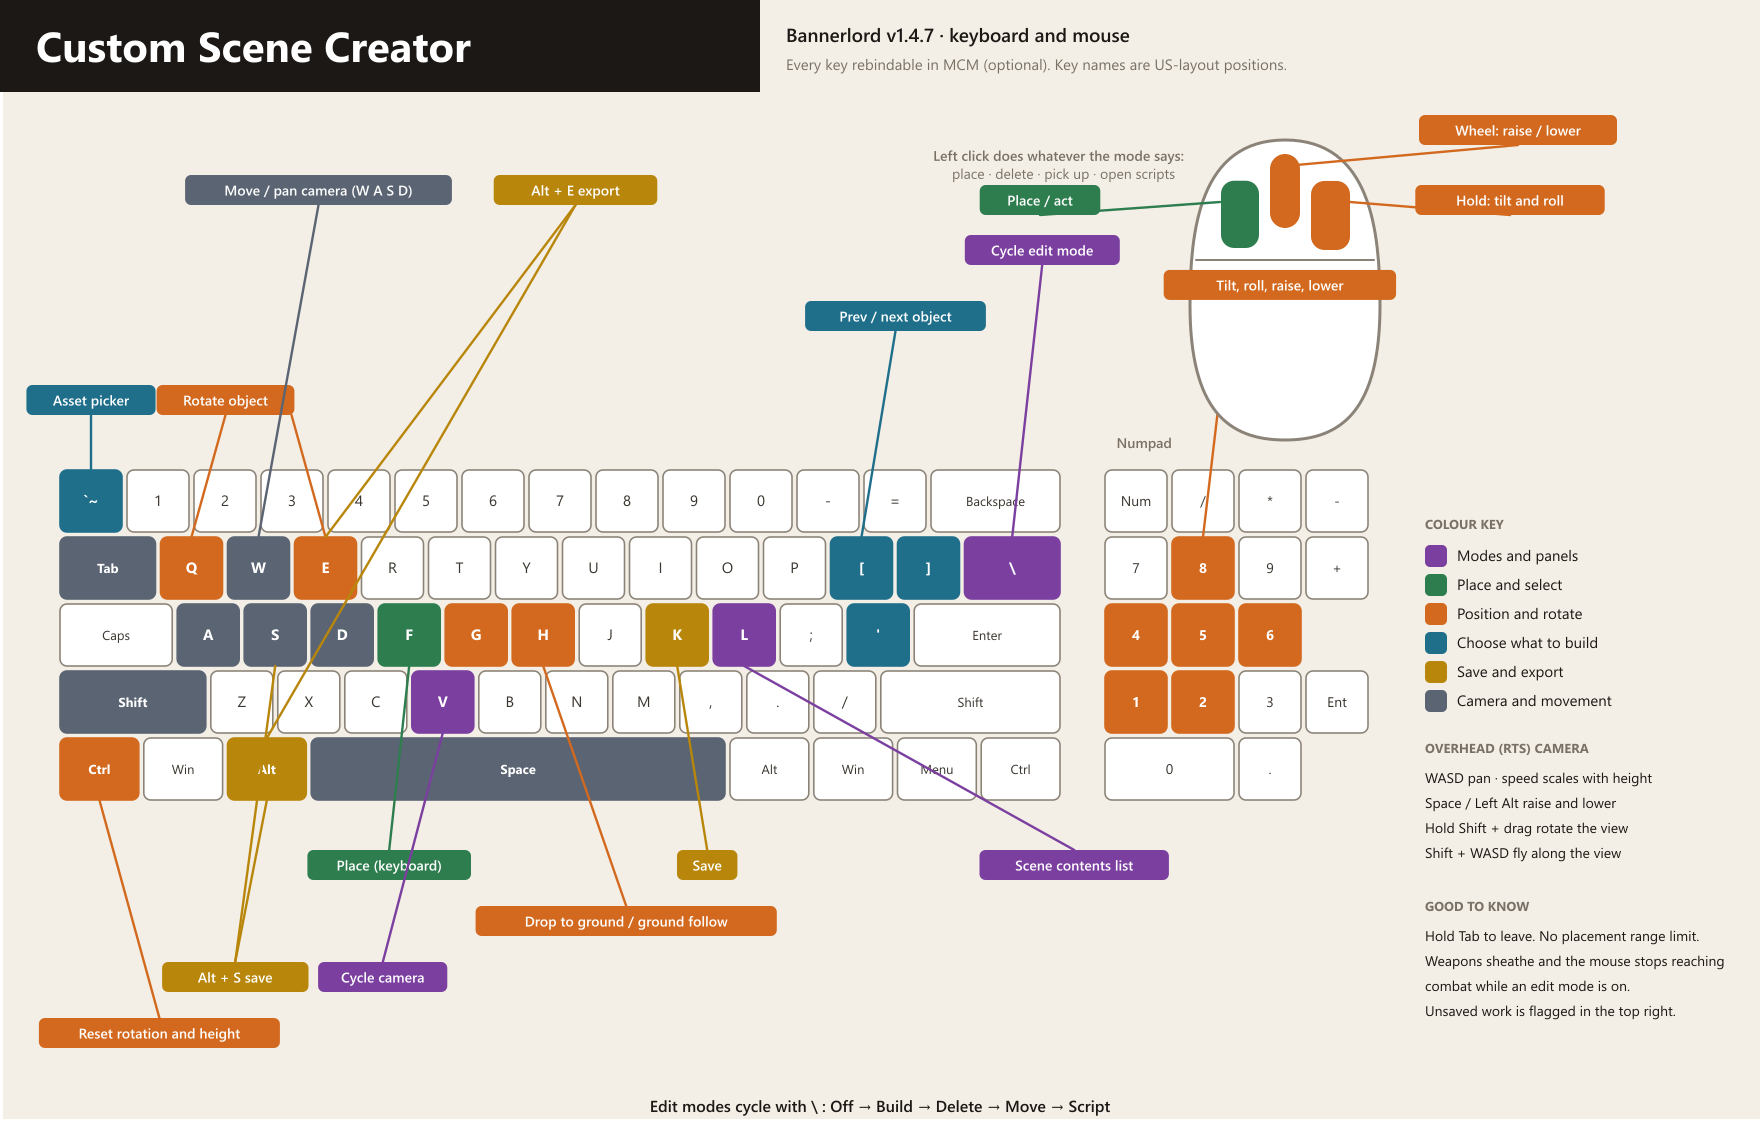
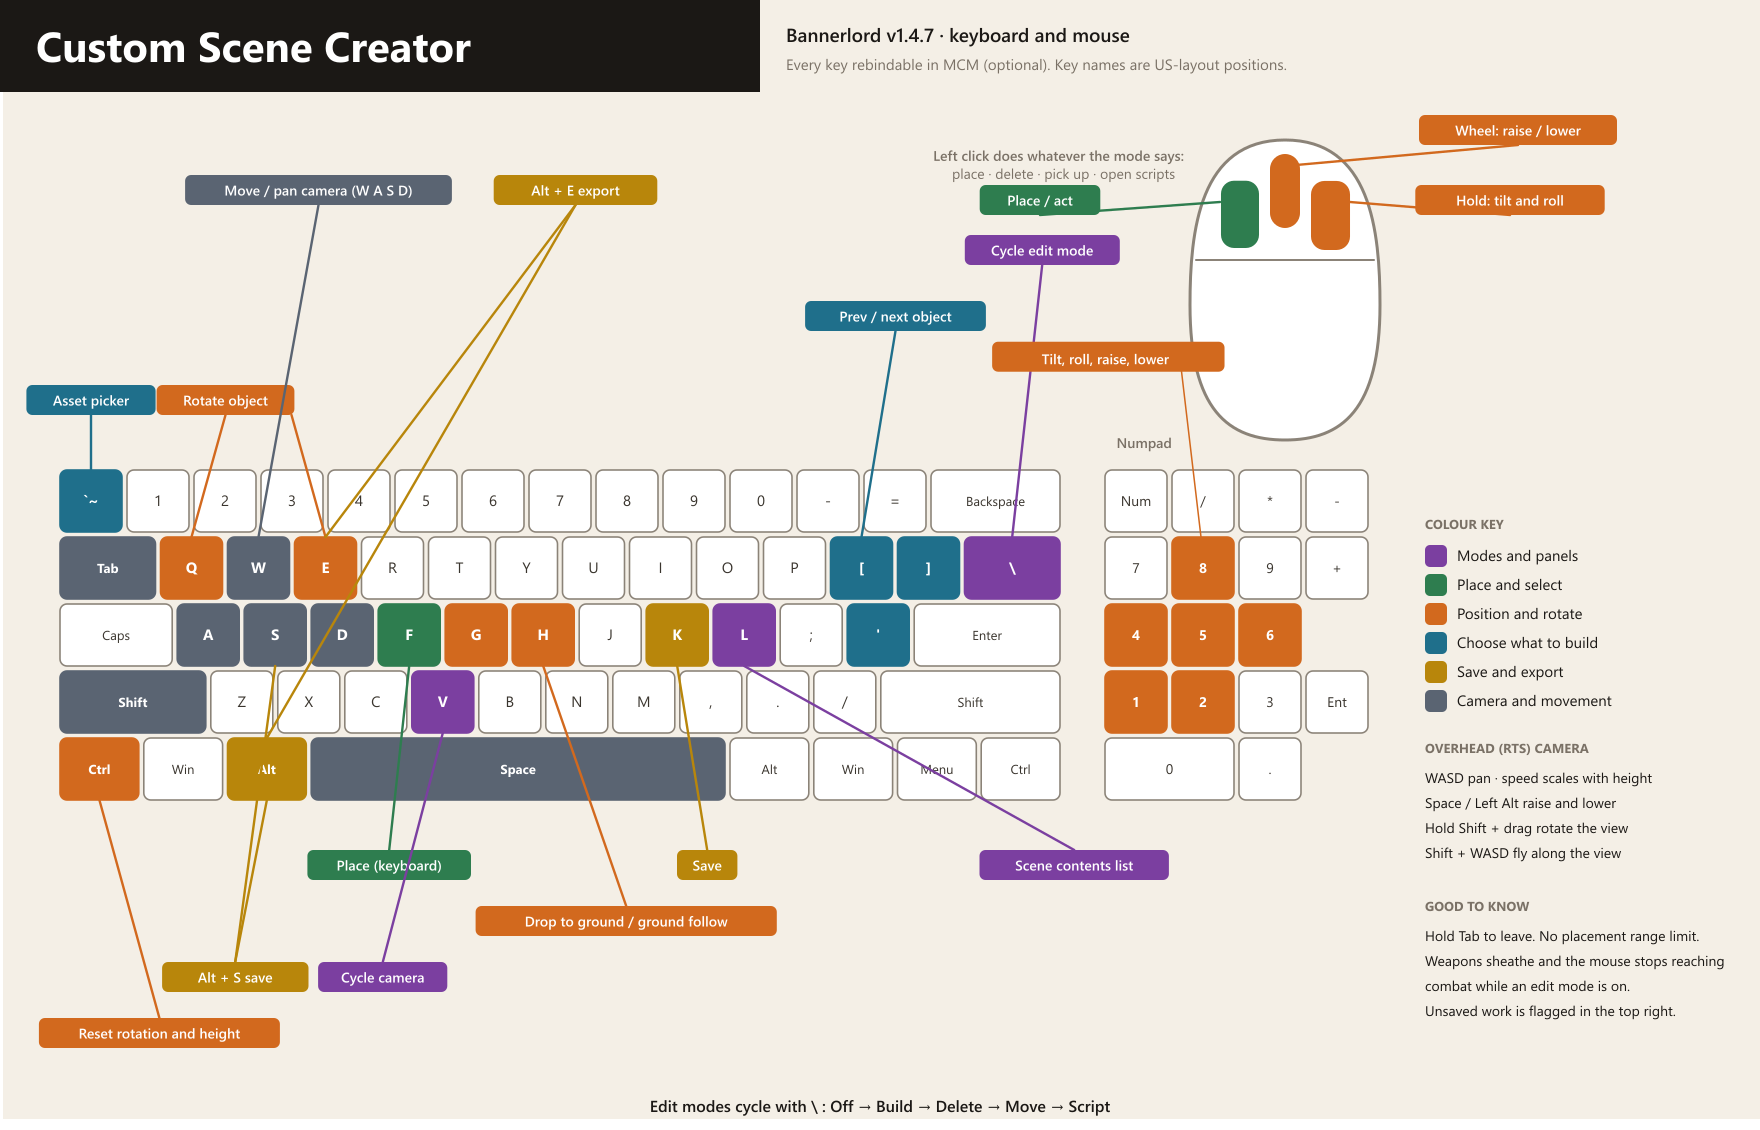
Mirror dropped prefabs into the module, and read the id from the file
The picker lists exports/prefabs, but a file that only exists there may not be
loadable, so it appeared in My Prefabs with no ghost and would not place.
Anything in that folder is now copied into the module's Prefabs folder when the
editor opens, which makes it loadable however the game resolves prefabs - drop a
file in, restart once, place it.

The id also comes from the name INSIDE the file rather than the file name. They
usually match; when they do not, the entry was listed under an id that does not
exist and could never have been placed.

Changed region(s): [[0.5625, 0.2168, 0.8125, 0.3407]]

diff --git a/USER_MANUAL.htm b/USER_MANUAL.htm
@@ -978,10 +978,18 @@ that ordering is far more useful than alphabetical.</p>
 
 <h3 id="use-prefab">A prefab</h3>
 <p>
-  Prefab exports are written into <code>Modules/CustomSceneCreator/Prefabs/</code> as well as your
-  Documents folder. <strong>Restart the game</strong> — prefab XML is only read at startup — and your
-  object appears in the asset picker under <strong>My Prefabs</strong>, placeable as a single piece.
+  Prefab exports are written to your Documents folder <em>and</em> copied into
+  <code>Modules/CustomSceneCreator/Prefabs/</code>. <strong>Restart the game</strong> — prefab XML is
+  only read at startup — and your object appears in the asset picker under
+  <strong>My Prefabs</strong>, placeable as a single piece.
 </p>
+<div class="note">
+  The picker lists whatever is in <code>exports/prefabs</code>, and that folder is also the archive —
+  it survives a reinstall and it is what you send to someone else. Anything you drop in there, a
+  prefab from another machine or another modder, is copied into the module's <code>Prefabs</code>
+  folder the next time the editor opens, so it is loadable however the game resolves it. Restart
+  once and it places.
+</div>
 <p>
   To ship it in your own mod, copy the XML into your module's <code>Prefabs</code> folder. Then
   anywhere in code:

diff --git a/CustomSceneCreator/Catalog/PackCatalog.cs b/CustomSceneCreator/Catalog/PackCatalog.cs
@@ -117,14 +117,28 @@ namespace CustomSceneCreator.Catalog {
                 string dir = Editing.ProjectSerializer.PrefabExportsPath;
                 if (!System.IO.Directory.Exists(dir)) return;
 
+                string moduleDir = ModulePrefabsPath();
+
                 foreach (string file in System.IO.Directory.GetFiles(dir, "*.xml").OrderBy(f => f)) {
-                    string id = IOPath.GetFileNameWithoutExtension(file);
+                    // The prefab is known to the game by the NAME INSIDE the file, not by the file
+                    // name. They usually match, but a renamed file would otherwise be listed under an
+                    // id that does not exist and could never be placed.
+                    string id = ReadRootName(file) ?? IOPath.GetFileNameWithoutExtension(file);
                     if (id.Length == 0) continue;
                     if (result.Any(p => string.Equals(p.PrefabName, id, StringComparison.OrdinalIgnoreCase))) continue;
 
-                    // The game reads prefab XML only at startup, so something exported a moment ago
-                    // is on disk but not yet instantiable. Listed either way, flagged, so the
-                    // category is not mysteriously empty right after an export.
+                    // Copy it where the game will actually read it.
+                    //
+                    // The exports folder under Documents is an ARCHIVE - the game never looks there.
+                    // A prefab only becomes instantiable from a module's Prefabs folder, so a file
+                    // dropped into exports (someone else's prefab, or one brought back from another
+                    // machine) was listed in the picker and then had no ghost and would not place.
+                    // Mirroring it here is what makes "drop it in and restart" work.
+                    Mirror(file, moduleDir);
+
+                    // The game reads prefab XML only at startup, so something copied a moment ago is
+                    // on disk but not yet instantiable. Listed either way, flagged, so the category
+                    // is not mysteriously empty right after an export.
                     bool loaded = GameEntity.PrefabExists(id);
 
                     result.Add(new Placeable {
@@ -141,6 +155,52 @@ namespace CustomSceneCreator.Catalog {
             } catch (Exception ex) {
                 TraceLogger.WriteException(nameof(PackCatalog), "Could not read exported prefabs", ex);
             }
+        }
+
+        /// <summary>The name on the first game_entity - what the engine will know the prefab by.</summary>
+        private static string? ReadRootName(string file) {
+            try {
+                var document = new XmlDocument();
+                document.Load(file);
+                XmlNodeList? nodes = document.GetElementsByTagName("game_entity");
+                if (nodes == null || nodes.Count == 0) return null;
+                string name = (nodes[0] as XmlElement)?.GetAttribute("name") ?? "";
+                return name.Length > 0 ? name : null;
+            } catch (Exception ex) {
+                TraceLogger.Write(nameof(PackCatalog),
+                    $"'{IOPath.GetFileName(file)}' is not readable prefab XML: {ex.Message}");
+                return null;
+            }
+        }
+
+        /// <summary>Copies an exported prefab into the module, when it is missing or out of date.</summary>
+        private static void Mirror(string file, string moduleDir) {
+            if (moduleDir.Length == 0) return;
+            try {
+                System.IO.Directory.CreateDirectory(moduleDir);
+                string target = IOPath.Combine(moduleDir, IOPath.GetFileName(file));
+
+                if (System.IO.File.Exists(target) &&
+                    System.IO.File.GetLastWriteTimeUtc(target) >= System.IO.File.GetLastWriteTimeUtc(file)) {
+                    return;
+                }
+
+                System.IO.File.Copy(file, target, overwrite: true);
+                TraceLogger.Write(nameof(PackCatalog),
+                    $"Copied '{IOPath.GetFileName(file)}' into the module so the game can load it. " +
+                    "Restart to place it.");
+            } catch (Exception ex) {
+                TraceLogger.Write(nameof(PackCatalog),
+                    $"Could not copy '{IOPath.GetFileName(file)}' into the module: {ex.Message}");
+            }
+        }
+
+        private static string ModulePrefabsPath() {
+            try {
+                string root = IOPath.Combine(BasePath.Name, "Modules", "CustomSceneCreator");
+                if (System.IO.Directory.Exists(root)) return IOPath.Combine(root, "Prefabs");
+            } catch { }
+            return "";
         }
 
         private static string Fallback(string value, string fallback) =>

diff --git a/README.md b/README.md
@@ -157,11 +157,13 @@ saved-project list, with "New - Pick a Scene" one button away. `csc.projects` li
 console and `csc.project <name>` opens one directly. A project remembers its scene and levels, so
 reopening restores the whole session rather than dropping objects into whatever scene was last used.
 
-To keep working on something you exported as a prefab, reopen the **project** it came from - the
-prefab is the finished artifact, not the source. Prefab exports
-are **also** written into `Modules/CustomSceneCreator/Prefabs/`, which is what makes them loadable by
-the game — after a restart the exported object appears in the asset picker under **Exported** and can
-be placed as a single piece.
+To keep working on something you exported as a prefab, reopen the **project** it came from — the
+prefab is the finished artifact, not the source.
+
+The picker lists whatever is in `exports/prefabs`, and exports are **also** copied into
+`Modules/CustomSceneCreator/Prefabs/`. Anything you drop into `exports/prefabs` is mirrored there
+when the editor next opens, so a prefab from someone else is loadable however the game resolves it —
+restart once and it places under **My Prefabs**.
 
 ## Logging
 
